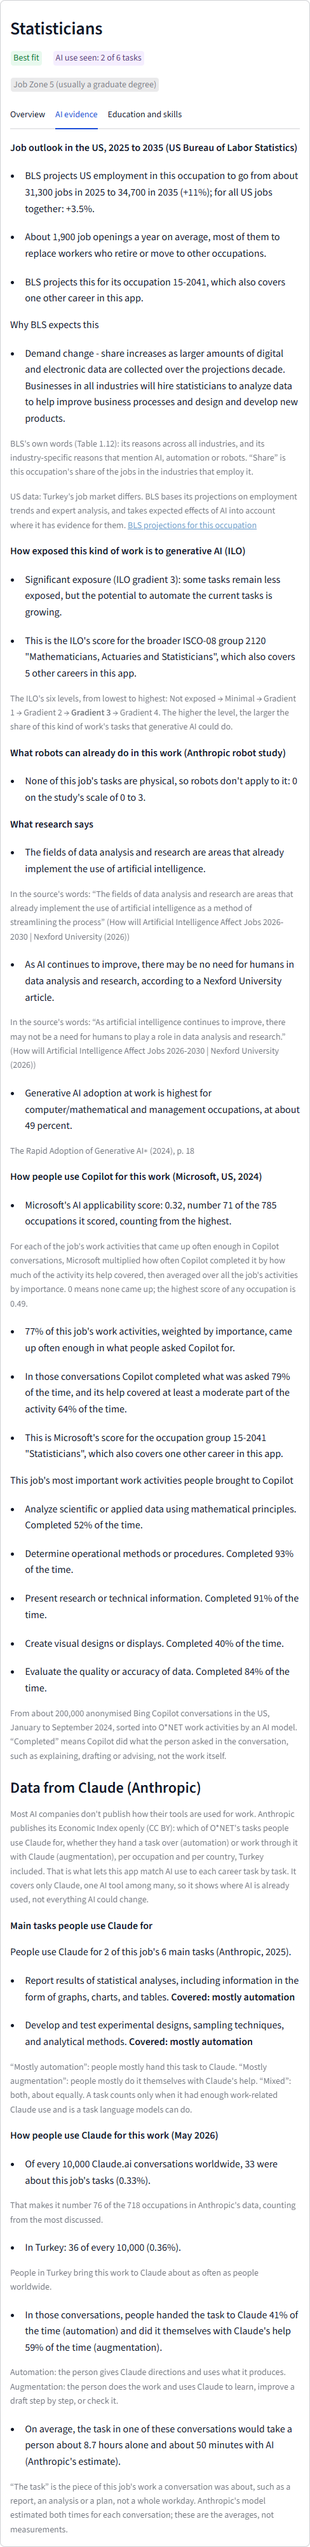
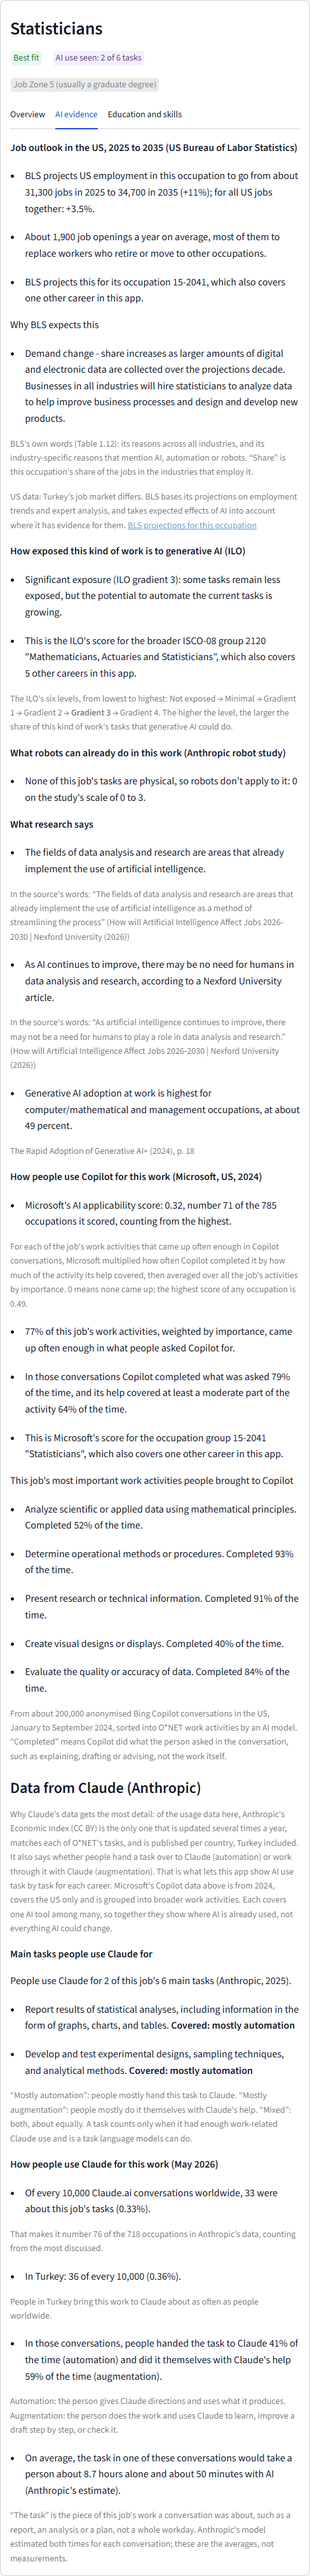
Claude section's note: why its data gets the most detail (updated several times a year, per O*NET task and per country), now that Microsoft's data is shown too; README picture retaken

Changed region(s): [[0.0307, 0.031, 0.9529, 0.9925]]

diff --git a/career_rag/ui_i18n.py b/career_rag/ui_i18n.py
@@ -409,7 +409,7 @@ TEXT: dict[str, dict[str, str]] = {
         "report.detail.skills": "Education and skills",
         # Why Claude's data is used, shown above it (ROADMAP 10.10).
         "report.claude.header": "Data from Claude (Anthropic)",
-        "report.claude.why": "Most AI companies don't publish how their tools are used for work. Anthropic publishes its Economic Index openly (CC BY): which of O*NET's tasks people use Claude for, whether they hand a task over (automation) or work through it with Claude (augmentation), per occupation and per country, Turkey included. That is what lets this app match AI use to each career task by task. It covers only Claude, one AI tool among many, so it shows where AI is already used, not everything AI could change.",
+        "report.claude.why": "Why Claude's data gets the most detail: of the usage data here, Anthropic's Economic Index (CC BY) is the only one that is updated several times a year, matches each of O*NET's tasks, and is published per country, Turkey included. It also says whether people hand a task over to Claude (automation) or work through it with Claude (augmentation). That is what lets this app show AI use task by task for each career. Microsoft's Copilot data above is from 2024, covers the US only and is grouped into broader work activities. Each covers one AI tool among many, so together they show where AI is already used, not everything AI could change.",
         "report.ai.table.title": "Main tasks people use Claude for",
         "report.new_titles.header": "Newer job titles close to this career",
         "report.new_titles.note": "O\\*NET has no occupation equivalent to these titles, so we can only show their closest O\\*NET occupations; this career is one of them.",
@@ -862,7 +862,7 @@ TEXT: dict[str, dict[str, str]] = {
         "report.detail.skills": "Eğitim ve beceriler",
         # Why Claude's data is used, shown above it (ROADMAP 10.10).
         "report.claude.header": "Claude verileri (Anthropic)",
-        "report.claude.why": "Çoğu yapay zekâ şirketi, araçlarının iş için nasıl kullanıldığını yayımlamıyor. Anthropic ise Economic Index verisini açık lisansla (CC BY) yayımlıyor: insanların O*NET görevlerinden hangileri için Claude'u kullandığını, bir görevi Claude'a bırakıp bırakmadıklarını (otomasyon) ya da Claude ile birlikte mi yürüttüklerini (destekleme), meslek ve ülke bazında, Türkiye dahil. Bu uygulamanın yapay zekâ kullanımını her kariyerle görev görev eşleştirebilmesi bu sayede mümkün. Veri yalnızca Claude'u, yani birçok yapay zekâ aracından birini kapsar; bu yüzden yapay zekânın zaten kullanıldığı yerleri gösterir, değiştirebileceği her şeyi değil.",
+        "report.claude.why": "Claude verisinin neden en ayrıntılı bölüm olduğu: buradaki kullanım verileri arasında yılda birkaç kez güncellenen, O*NET'in her görevine karşılık gelen ve Türkiye dahil ülke bazında yayımlanan tek veri Anthropic'in Economic Index'idir (CC BY). Ayrıca insanların bir görevi Claude'a bırakıp bırakmadığını (otomasyon) ya da Claude ile birlikte mi yürüttüğünü (destekleme) gösterir. Bu uygulamanın her kariyer için yapay zekâ kullanımını görev görev gösterebilmesi bu sayede mümkün. Yukarıdaki Microsoft Copilot verisi 2024 yılına aittir, yalnızca ABD'yi kapsar ve daha geniş iş etkinliklerine göre gruplanmıştır. Her biri birçok yapay zekâ aracından yalnızca birini kapsar; bu yüzden birlikte yapay zekânın zaten kullanıldığı yerleri gösterirler, değiştirebileceği her şeyi değil.",
         "report.ai.table.title": "İnsanların Claude'u kullandığı ana görevler",
         "report.new_titles.header": "Bu kariyere yakın yeni meslek unvanları",
         "report.new_titles.note": "O\\*NET'te bu unvanlara karşılık gelen bir meslek yok; bu yüzden yalnızca onlara en yakın O\\*NET mesleklerini gösterebiliyoruz ve bu kariyer onlardan biri.",
